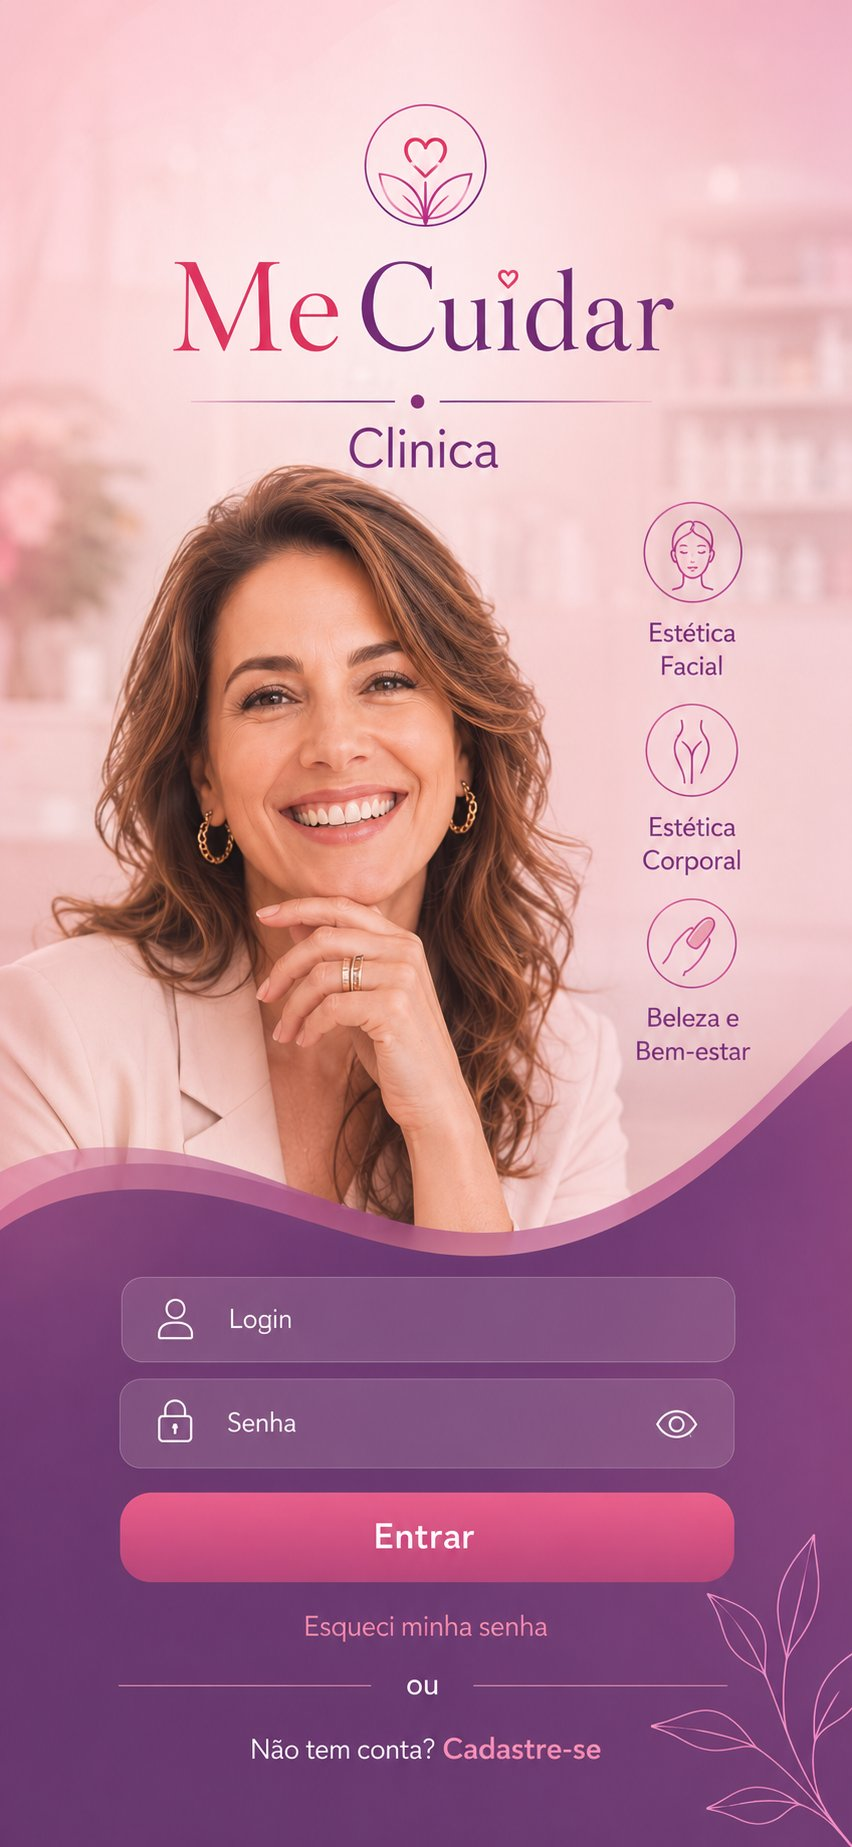
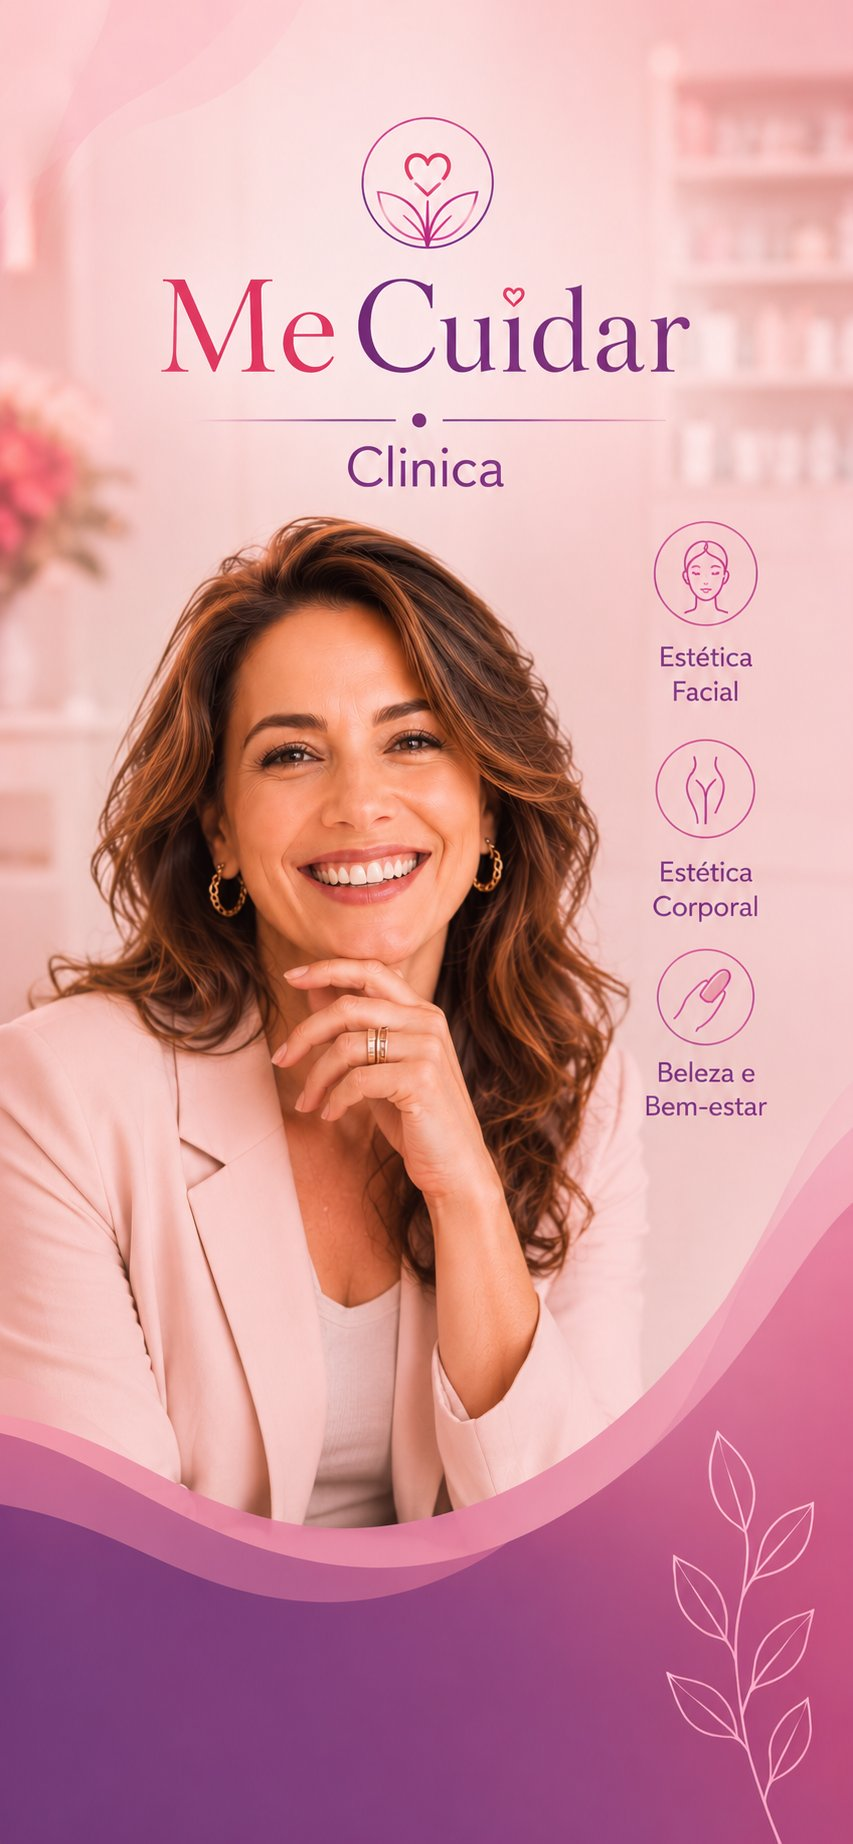
Add files via upload

diff --git a/belezza/index.html b/belezza/index.html
@@ -1421,29 +1421,32 @@ function sairCli(){ if(window._sairCli) window._sairCli(); }
 <!-- LOGIN CLIENTE -->
 <div id="login-cli-screen" style="position:fixed;inset:0;z-index:9100;display:flex;flex-direction:column;background:#7B2D8B;overflow:hidden;height:100dvh">
 
-  <!-- FOTO: ocupa espaço disponível, encolhe quando teclado abre -->
+  <!-- FOTO: 2/3 da tela — imagem limpa sem campos desenhados -->
   <div id="cli-foto" style="position:relative;overflow:hidden;flex:2;min-height:0">
-    <img src="hero-cliente.jpg" alt="MeCuidar" style="width:100%;height:100%;object-fit:cover;object-position:center 35%;display:block">
-    <div style="position:absolute;inset:0;background:linear-gradient(180deg,rgba(255,255,255,.05) 0%,transparent 40%,rgba(107,45,139,.55) 75%,rgba(107,45,139,.95) 100%)"></div>
-    <svg style="position:absolute;bottom:-1px;left:0;width:100%" viewBox="0 0 390 50" preserveAspectRatio="none">
-      <path d="M0,25 Q65,0 130,18 Q195,36 260,18 Q325,0 390,22 L390,50 L0,50 Z" fill="#7B2D8B"/>
-    </svg>
+    <img src="hero-cliente.jpg" alt="MeCuidar" style="
+      width:100%;height:100%;
+      object-fit:cover;
+      object-position:center 30%;
+      display:block;
+    ">
+    <!-- Overlay gradiente — funde com o roxo da onda que já está na imagem -->
+    <div style="position:absolute;inset:0;background:linear-gradient(180deg,rgba(255,255,255,.02) 0%,transparent 50%,rgba(107,45,139,.15) 85%,rgba(107,45,139,.5) 100%)"></div>
   </div>
 
-  <!-- FORMULÁRIO: altura fixa, sempre visível -->
-  <div id="cli-form" style="background:linear-gradient(180deg,#7B2D8B,#5a1f6e);padding:12px 24px env(safe-area-inset-bottom, 16px);flex-shrink:0">
+  <!-- FORMULÁRIO: 1/3 da tela -->
+  <div id="cli-form" style="background:linear-gradient(180deg,#9B3D8B,#5a1f6e);padding:14px 24px env(safe-area-inset-bottom, 16px);flex:1;display:flex;flex-direction:column;justify-content:center">
     <div style="max-width:400px;margin:0 auto;width:100%">
-      <div style="display:flex;align-items:center;gap:10px;background:rgba(255,255,255,.15);border-radius:30px;padding:8px 16px;margin-bottom:8px;border:1px solid rgba(255,255,255,.25)">
+      <div style="display:flex;align-items:center;gap:10px;background:rgba(255,255,255,.15);border-radius:30px;padding:9px 16px;margin-bottom:8px;border:1px solid rgba(255,255,255,.25)">
         <svg width="18" height="18" viewBox="0 0 24 24" fill="none" stroke="rgba(255,255,255,.7)" stroke-width="1.5"><circle cx="12" cy="8" r="4"/><path d="M4 20 Q4 16 12 16 Q20 16 20 20"/></svg>
         <input id="cli-email" type="email" placeholder="E-mail" autocomplete="username" style="background:none;border:none;outline:none;color:white;font-size:16px;flex:1;font-family:inherit" onkeydown="handleCliKey(event)">
       </div>
-      <div style="display:flex;align-items:center;gap:10px;background:rgba(255,255,255,.15);border-radius:30px;padding:8px 16px;margin-bottom:6px;border:1px solid rgba(255,255,255,.25)">
+      <div style="display:flex;align-items:center;gap:10px;background:rgba(255,255,255,.15);border-radius:30px;padding:9px 16px;margin-bottom:6px;border:1px solid rgba(255,255,255,.25)">
         <svg width="18" height="18" viewBox="0 0 24 24" fill="none" stroke="rgba(255,255,255,.7)" stroke-width="1.5"><rect x="5" y="11" width="14" height="10" rx="2"/><path d="M8 11 V7 Q8 3 12 3 Q16 3 16 7 V11"/></svg>
         <input id="cli-pass" type="password" placeholder="Senha" autocomplete="current-password" style="background:none;border:none;outline:none;color:white;font-size:16px;flex:1;font-family:inherit" onkeydown="handleCliKey(event)">
         <span id="cli-eye" onclick="toggleCliPass()" style="cursor:pointer;color:rgba(255,255,255,.6);font-size:18px;user-select:none;padding:4px">👁</span>
       </div>
-      <div id="cli-error" style="color:#ffb3c6;font-size:11px;text-align:center;margin-bottom:6px;min-height:14px;font-weight:600"></div>
-      <button onclick="doLoginCli()" style="width:100%;padding:11px;border:none;border-radius:30px;background:linear-gradient(90deg,#D4537E,#993556);color:white;font-size:15px;font-weight:700;letter-spacing:.06em;cursor:pointer;font-family:inherit;box-shadow:0 4px 16px rgba(153,53,86,.4)">Entrar</button>
+      <div id="cli-error" style="color:#ffb3c6;font-size:11px;text-align:center;margin-bottom:5px;min-height:14px;font-weight:600"></div>
+      <button onclick="doLoginCli()" style="width:100%;padding:12px;border:none;border-radius:30px;background:linear-gradient(90deg,#D4537E,#993556);color:white;font-size:15px;font-weight:700;letter-spacing:.06em;cursor:pointer;font-family:inherit;box-shadow:0 4px 16px rgba(153,53,86,.4)">Entrar</button>
       <div style="display:flex;justify-content:space-between;align-items:center;margin-top:8px">
         <span onclick="recuperarSenhaCli()" style="font-size:11px;color:rgba(255,255,255,.6);cursor:pointer;text-decoration:underline">Esqueci minha senha</span>
         <span onclick="voltarLoginPro()" style="font-size:11px;color:rgba(255,255,255,.4);cursor:pointer">Acesso profissional →</span>